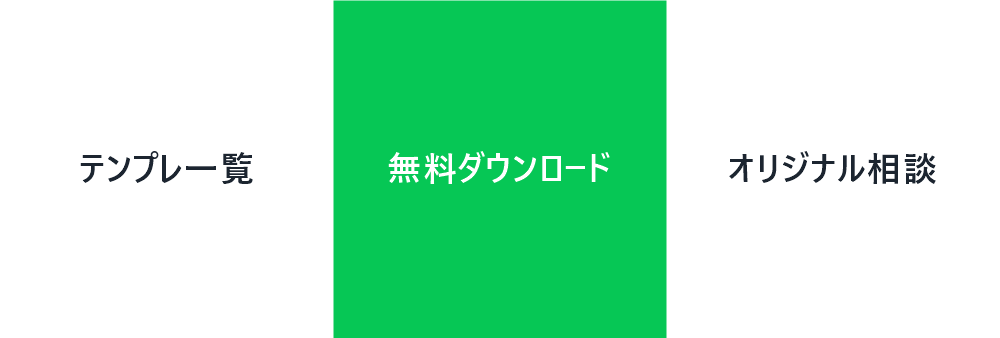
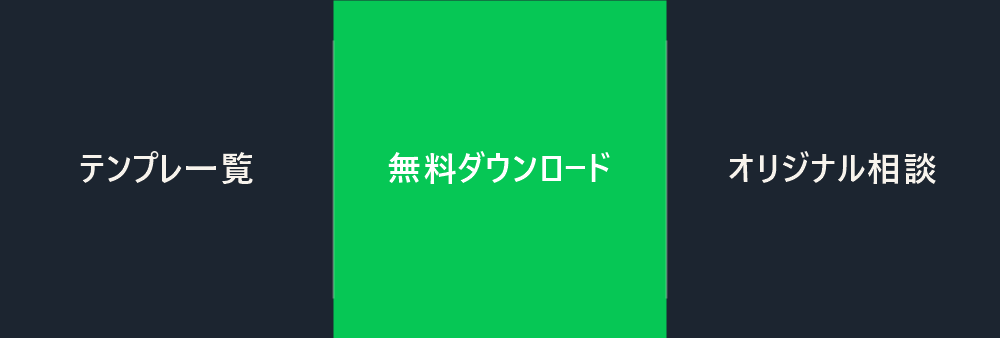
Update LINE CTAs and rich menu assets

diff --git a/3col.html b/3col.html
@@ -539,7 +539,7 @@ footer .copy{font-family:var(--en);font-weight:300;font-size:9px;letter-spacing:
         <span class="v en">¥0</span>
         <span class="s">運用保守 月5万〜</span>
       </div>
-      <a class="side-cta" href="#contact">ご相談はこちら</a>
+      <a class="side-cta" href="#contact">LINE登録</a>
     </div>
   </aside>
 

diff --git a/clinic-reserve.html b/clinic-reserve.html
@@ -555,7 +555,7 @@ footer .copy{font-family:var(--en);font-weight:300;font-size:9px;letter-spacing:
         <span class="v en">¥50,000〜</span>
         <span class="s">3点セット</span>
       </div>
-      <a class="side-cta" href="#contact">ご相談はこちら</a>
+      <a class="side-cta" href="#contact">LINE登録</a>
     </div>
   </aside>
 

diff --git a/clinic.html b/clinic.html
@@ -566,7 +566,7 @@ footer .copy{font-family:var(--en);font-weight:300;font-size:9px;letter-spacing:
         <span class="v en">¥0</span>
         <span class="s">運用保守 月5万〜</span>
       </div>
-      <a class="side-cta" href="#contact">ご相談はこちら</a>
+      <a class="side-cta" href="#contact">LINE登録</a>
     </div>
   </aside>
 

diff --git a/seitai.html b/seitai.html
@@ -566,7 +566,7 @@ footer .copy{font-family:var(--en);font-weight:300;font-size:9px;letter-spacing:
         <span class="v en">¥50,000〜</span>
         <span class="s">3点セット</span>
       </div>
-      <a class="side-cta" href="#contact">ご相談はこちら</a>
+      <a class="side-cta" href="#contact">LINE登録</a>
     </div>
   </aside>
 

diff --git a/shop.html b/shop.html
@@ -566,7 +566,7 @@ footer .copy{font-family:var(--en);font-weight:300;font-size:9px;letter-spacing:
         <span class="v en">¥0</span>
         <span class="s">運用保守 月5万〜</span>
       </div>
-      <a class="side-cta" href="#contact">ご相談はこちら</a>
+      <a class="side-cta" href="#contact">LINE登録</a>
     </div>
   </aside>
 

diff --git a/PUBLISH.md b/PUBLISH.md
@@ -1,41 +1,28 @@
 # 公開手順（GitHub Pages）
 
-このフォルダは git リポジトリとして初期化済み・コミット済みです。
-あとは GitHub にリポジトリを作って push → Pages を有効化するだけです。
+このフォルダは GitHub リポジトリ `nimahashi-cyber/lp` に接続済みです。
+更新後はコミットして push すると、GitHub Pages の公開内容に反映されます。
 
-## 1. GitHub で空のリポジトリを作成
-- https://github.com/new
-- Repository name: `one-launch-lp`（この名前を前提に下記URLを組んでいます）
-- Public を選択
-- 「Add a README」などは**チェックしない**（空のまま作成）
+## 更新を公開する
+このフォルダで次を実行します。
 
-## 2. リモート登録して push
-PowerShell でこのフォルダにて（`YOURNAME` を自分の GitHub ユーザー名に置換）:
-
-```powershell
-git remote add origin https://github.com/YOURNAME/one-launch-lp.git
-git branch -M main
-git push -u origin main
+```bash
+git add .
+git commit -m "Update ONE LAUNCH LP"
+git push origin main
 ```
 
-## 3. Pages を有効化
-- リポジトリ → Settings → Pages
-- Source: **Deploy from a branch**
-- Branch: **main** / **/(root)** → Save
-- 1〜2分待つと公開されます。
-
-## 4. 公開URL
-- サイト（ショーケース）: `https://YOURNAME.github.io/one-launch-lp/`
+## 公開URL
+- サイト（ショーケース）: `https://nimahashi-cyber.github.io/lp/`
 - 各テンプレのダウンロード:
-  - サロン:            `.../one-launch-lp/dl/one-launch-salon.zip`
-  - クリニック/コスメ: `.../one-launch-lp/dl/one-launch-clinic-cosme.zip`
-  - ショップ:          `.../one-launch-lp/dl/one-launch-shop.zip`
-  - スポーツ:          `.../one-launch-lp/dl/one-launch-sports.zip`
-  - EV:                `.../one-launch-lp/dl/one-launch-ev.zip`
-  - スタンダード:      `.../one-launch-lp/dl/one-launch-standard.zip`
+  - サロン:            `.../lp/dl/one-launch-salon.zip`
+  - クリニック/コスメ: `.../lp/dl/one-launch-clinic-cosme.zip`
+  - ショップ:          `.../lp/dl/one-launch-shop.zip`
+  - スポーツ:          `.../lp/dl/one-launch-sports.zip`
+  - EV:                `.../lp/dl/one-launch-ev.zip`
+  - スタンダード:      `.../lp/dl/one-launch-standard.zip`
 
-公開URLが確定したら教えてください。LINE の自動応答／リッチメニューの
-プレースホルダURL（`https://YOURNAME.github.io/...`）を実URLに差し替えます。
+LINE の自動応答／リッチメニューにあるURLは、この公開URLを使います。
 
 ## メモ
 - ダウンロードZIPは `build-downloads.ps1` で再生成できます（テンプレ更新時）。